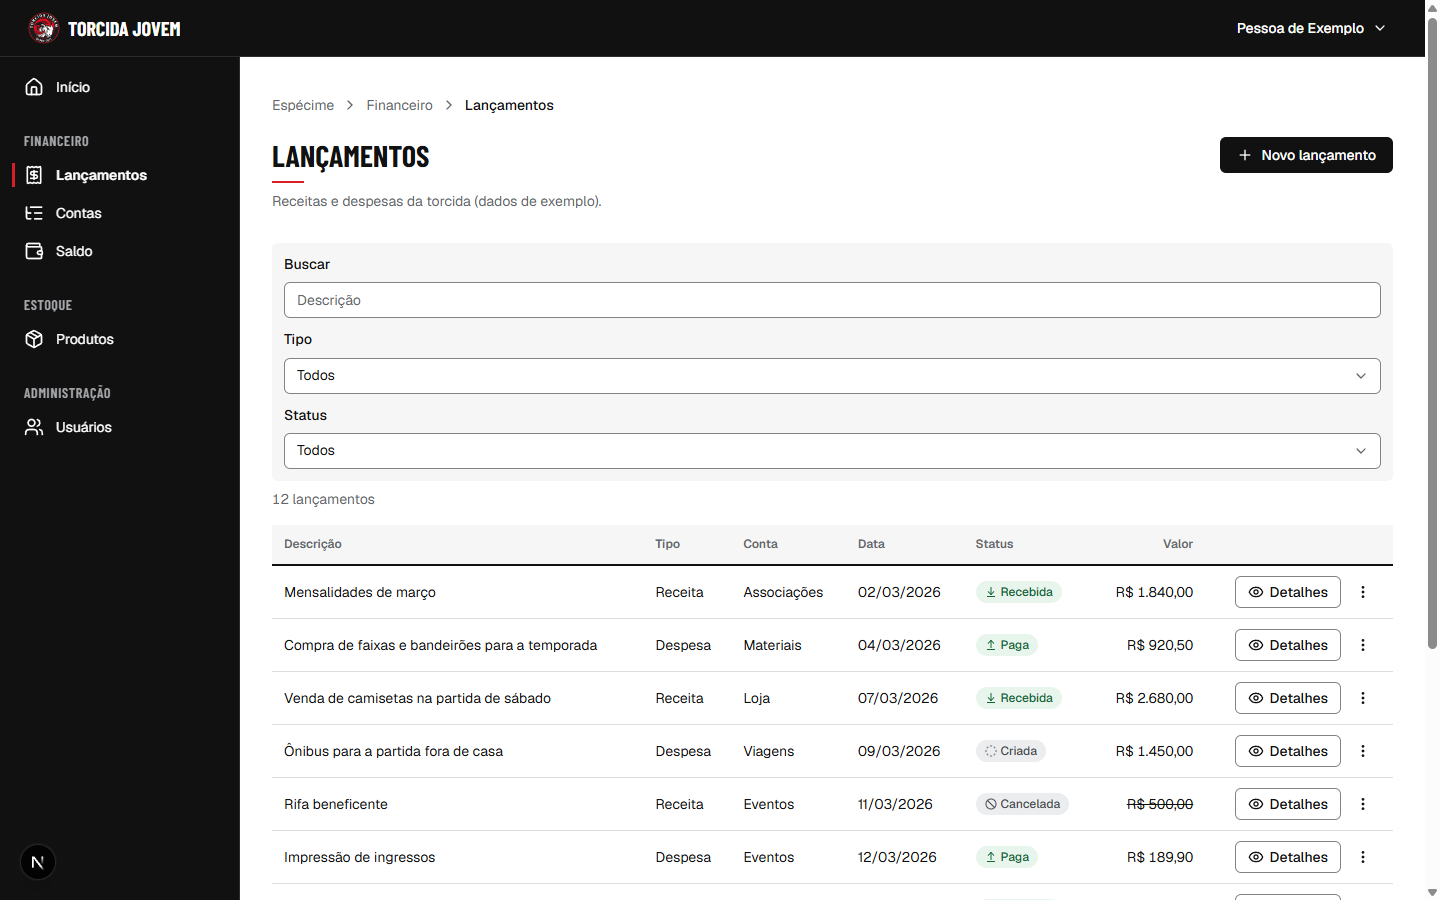
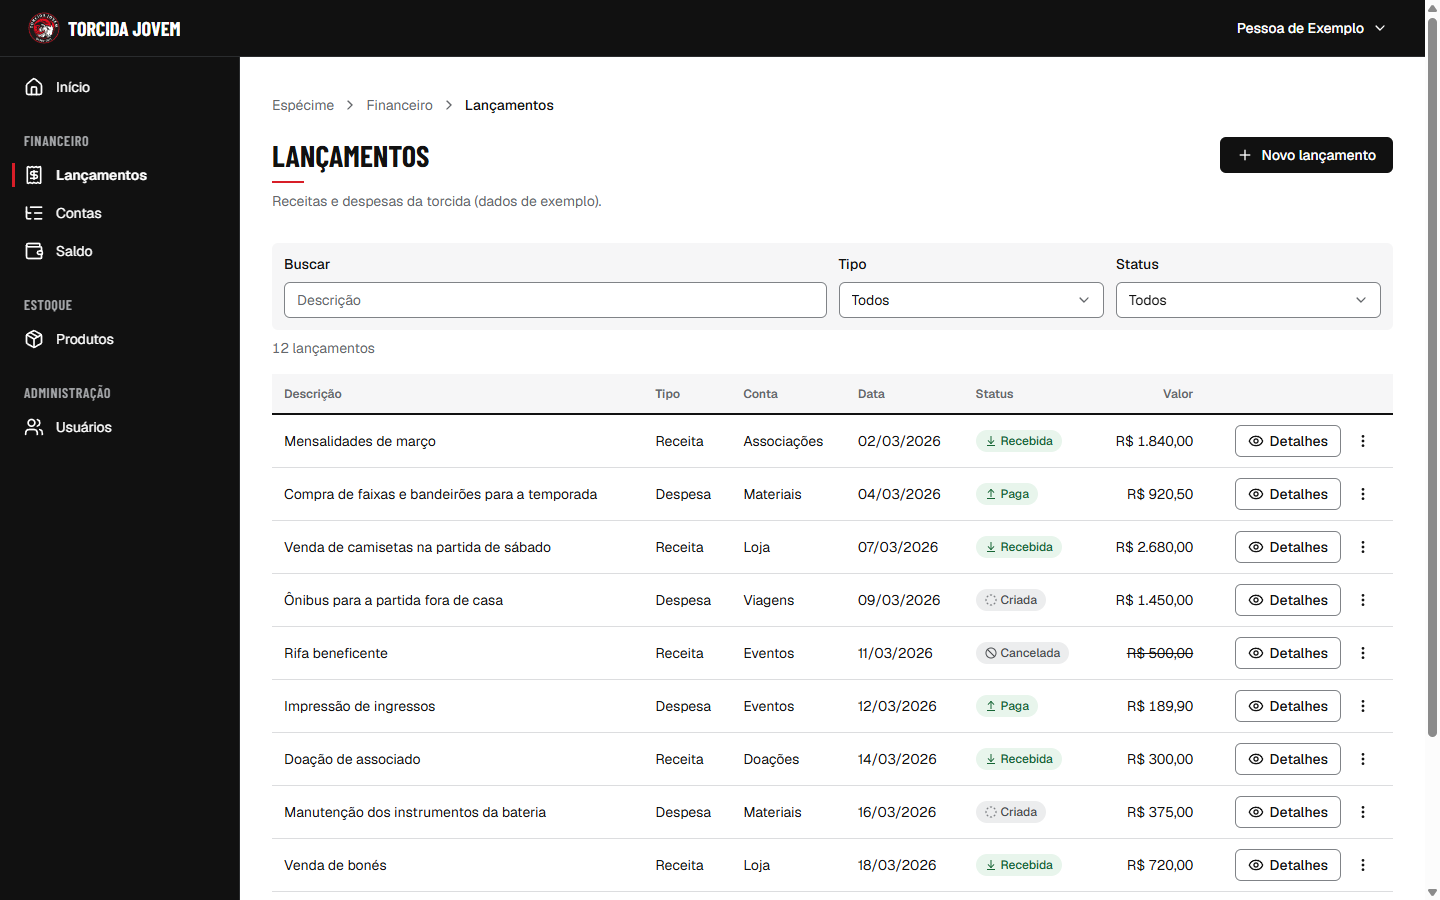
docs(web-design): segunda conferencia do especime apos as correcoes do portao

diff --git a/.specs/features/web-design/evidence/especime.md b/.specs/features/web-design/evidence/especime.md
@@ -30,16 +30,43 @@
 | 1 | Identidade | Moldura preta, título condensado em caixa alta com filete vermelho, escudo no shell e no login. Reconhecível sem depender de vermelho |
 | 2 | Vermelho só como acento | Item ativo, filete do título, erro e saldo negativo. Nenhuma área de fundo vermelha |
 | 3 | Tipografia | Barlow Condensed em título de página, rótulos de grupo, nome da marca e valor de destaque; resto em Geist |
-| 4 | DD-4 | Barlow Condensed 700 e Geist 600 lado a lado; algarismos tabulares preservados ("R$ 1.111,11" e "R$ 8.888,88" com a mesma largura). **Decisão do mantenedor pendente** |
+| 4 | DD-4 | Barlow Condensed 700 e Geist 600 lado a lado; algarismos tabulares preservados ("R$ 1.111,11" e "R$ 8.888,88" com a mesma largura). **Aprovada: Barlow Condensed 700 (WDS-D-031)** |
 | 5 | Contraste e foco | Todos os pares exibidos acima do limite (teste de contraste). Foco de 2 px corrigido na rodada 4 |
 | 6 | Status e valores | Cada status com rótulo e ícone; `CANCELADA` neutra e com valor riscado; receita "+", despesa "−", saldo negativo com ícone |
 | 7 | Responsividade | Sem rolagem horizontal de página em 390 (medido: `scrollWidth` 390). Lista abaixo de 768, tabela a partir de 768, coluna de prioridade 3 só a partir de 1024, navegação fixa a partir de 1024 |
-| 8 | Toque | Alvos pelos tokens sob `pointer: coarse` (cobertos por teste); não emulado nesta conferência |
-| 9 | Movimento reduzido | Regra global coberta por teste; não emulado nesta conferência |
+| 8 | Toque | Conferido na segunda conferência, com emulação |
+| 9 | Movimento reduzido | Conferido na segunda conferência, com emulação |
 | 10 | Marca | Escudo íntegro (teste de hash), 1:1, sem efeito; nenhum elemento de marca inventado |
 
 ## Divergências encontradas
 
-1. **Barra de filtros em 1440 px**: os três filtros ficam empilhados em coluna, um por linha, em vez de uma linha só (em 820 px a barra aparece corretamente em uma linha). Defeito de `components/app/filter-bar.tsx` no ponto de quebra `lg`; correção proposta: manter a grade de três colunas (ou a linha flexível) também a partir de 1024 px. Corrigir antes da rodada 6.
+1. **Barra de filtros a partir de 1024 px**: empilhada. Corrigida em `74dd8fe` (ver segunda conferência).
+1a. **Overflow em 1024 px** (apontado pelo mantenedor): corrigido em `6414cd9`.
 2. **Campos numéricos**: `MoneyField` e `QuantityField` não aceitam somente leitura nem a marca "(opcional)"; o espécime mostra só repouso, inválido e desabilitado.
 3. **Escudo em 16 px** (aba): ilegível, já registrado como dependência de asset oficial reduzido.
+
+## Segunda conferência (2026-10-12, depois do portão)
+
+Correções pedidas pelo mantenedor: overflow em 1024 px, barra de filtros e conferência real de toque, teclado e movimento reduzido. Navegador Chromium via Playwright MCP, `next dev`, sem API. O indicador de desenvolvimento do Next foi ocultado nas capturas por estilo injetado só no navegador.
+
+**Viewports das capturas.** As capturas de viewport têm a largura pedida; a área útil do documento é 15 px menor por causa da barra de rolagem vertical (o arquivo de 390 px da primeira conferência era uma captura de página inteira, por isso media 375 px). Novas capturas, todas de viewport:
+
+| Arquivo | Viewport | Área útil do documento |
+| --- | --- | --- |
+| `390-01-pagina-de-exemplo.png` | 390 × 844 | 375 px |
+| `820-01-pagina-de-exemplo.png` | 820 × 1180 | 820 px (sem barra) |
+| `1024-01-pagina-de-exemplo.png` | 1024 × 900 | 1009 px |
+| `1440-10-pagina-de-exemplo.png` | 1440 × 900 | 1425 px |
+| `1440-12-filtros-no-especime.png` | 1440 × 900, recorte da seção | — |
+
+**Rolagem horizontal do documento** (`scrollWidth` igual a `clientWidth`) em `/design-system/pagina-de-exemplo` e `/design-system`: sem rolagem em 390, 768, 820, 1000, 1024, 1040, 1100, 1280 e 1440 px. A unidade de correção também varreu de 768 a 1440 px de 8 em 8 px, sem rolagem. Em 1024 px todas as ações das linhas ficam dentro do contêiner da tabela. Antes da correção, 1024 px dava 1065/1009.
+
+**Barra de filtros**: busca numa linha e dois filtros abaixo quando o contêiner é médio (768 a ~1100 px com navegação); os três numa linha quando há espaço; o mesmo comportamento dentro do espécime e na página de exemplo.
+
+**Teclado**: o primeiro Tab foca "Pular para o conteúdo" (anel branco de 2 px sobre o cabeçalho escuro); Enter leva o foco a `main#conteudo`. Os botões de linha têm nome que identifica a linha ("Detalhes lançamento Mensalidades de março") e anel de foco. O menu de ações abre por Enter e fecha por Esc, devolvendo o foco ao botão "Ações de lançamento …". Em 820 px a gaveta abre por Enter em "Abrir menu" e fecha por Esc, com o foco de volta ao botão.
+
+**Hidratação após redimensionar**: nenhum erro de console além do `GET /api/v1/auth/me` 500 (API fora do ar), durante a varredura de larguras nas duas páginas.
+
+**Movimento reduzido** (`prefers-reduced-motion: reduce` emulado): a consulta casa; duração de transição e de animação de botões e da gaveta caem a 0,00001 s.
+
+**Ponteiro de toque**: emulado por CDP (emulação de toque mais `pointer: coarse` e `any-pointer: coarse`); `matchMedia('(pointer: coarse)')` casou, controles passaram a 44 px (`--control-height-md` = 2,75rem) e campos a 16 px. Em 390 e 820 px, nenhum botão, link, campo ou select ficou abaixo de 44 × 44 px depois da correção do link da marca (que media 40 × 44). **Limitação**: a emulação não reproduz o tamanho físico do dedo nem a área de toque estendida do sistema; medem-se as caixas renderizadas.

diff --git a/.specs/features/web-design/STATE.md b/.specs/features/web-design/STATE.md
@@ -292,8 +292,7 @@ A numeração `T1…Tn` é local a cada arquivo, como na Web V1. Total: 44 tasks
 
 ## Handoff
 
-- **Fase**: Execute. **Rodadas 1 a 5 concluídas e integradas** na `feature/web-design` (97 arquivos de teste, 1612 testes, todos os gates verdes). **Portão do espécime aberto**: aguardando a aprovação visual do mantenedor e a decisão de DD-4.
-- **Evidência**: `evidence/especime.md` e capturas em `evidence/especime/`.
-- **Divergência a corrigir antes da rodada 6**: barra de filtros empilhada a partir de 1024 px (`components/app/filter-bar.tsx`).
+- **Fase**: Execute. Rodadas 1 a 5 concluídas; correções do portão do espécime feitas (`6414cd9`, `74dd8fe`, `d99df70` e a correção do alvo da marca), com toque, teclado e movimento reduzido conferidos no navegador. **Portão aberto de novo**, aguardando o mantenedor.
+- **Testes**: 97 arquivos, 1620 testes; todos os gates verdes.
 - **Bloqueios**: rodadas 6 e 7 não começam sem aprovação explícita. Sem push, PR ou merge na `develop`.
 - **Fora do versionamento**: `.claude/`, `graphify-out/` e `.playwright-mcp/`.
